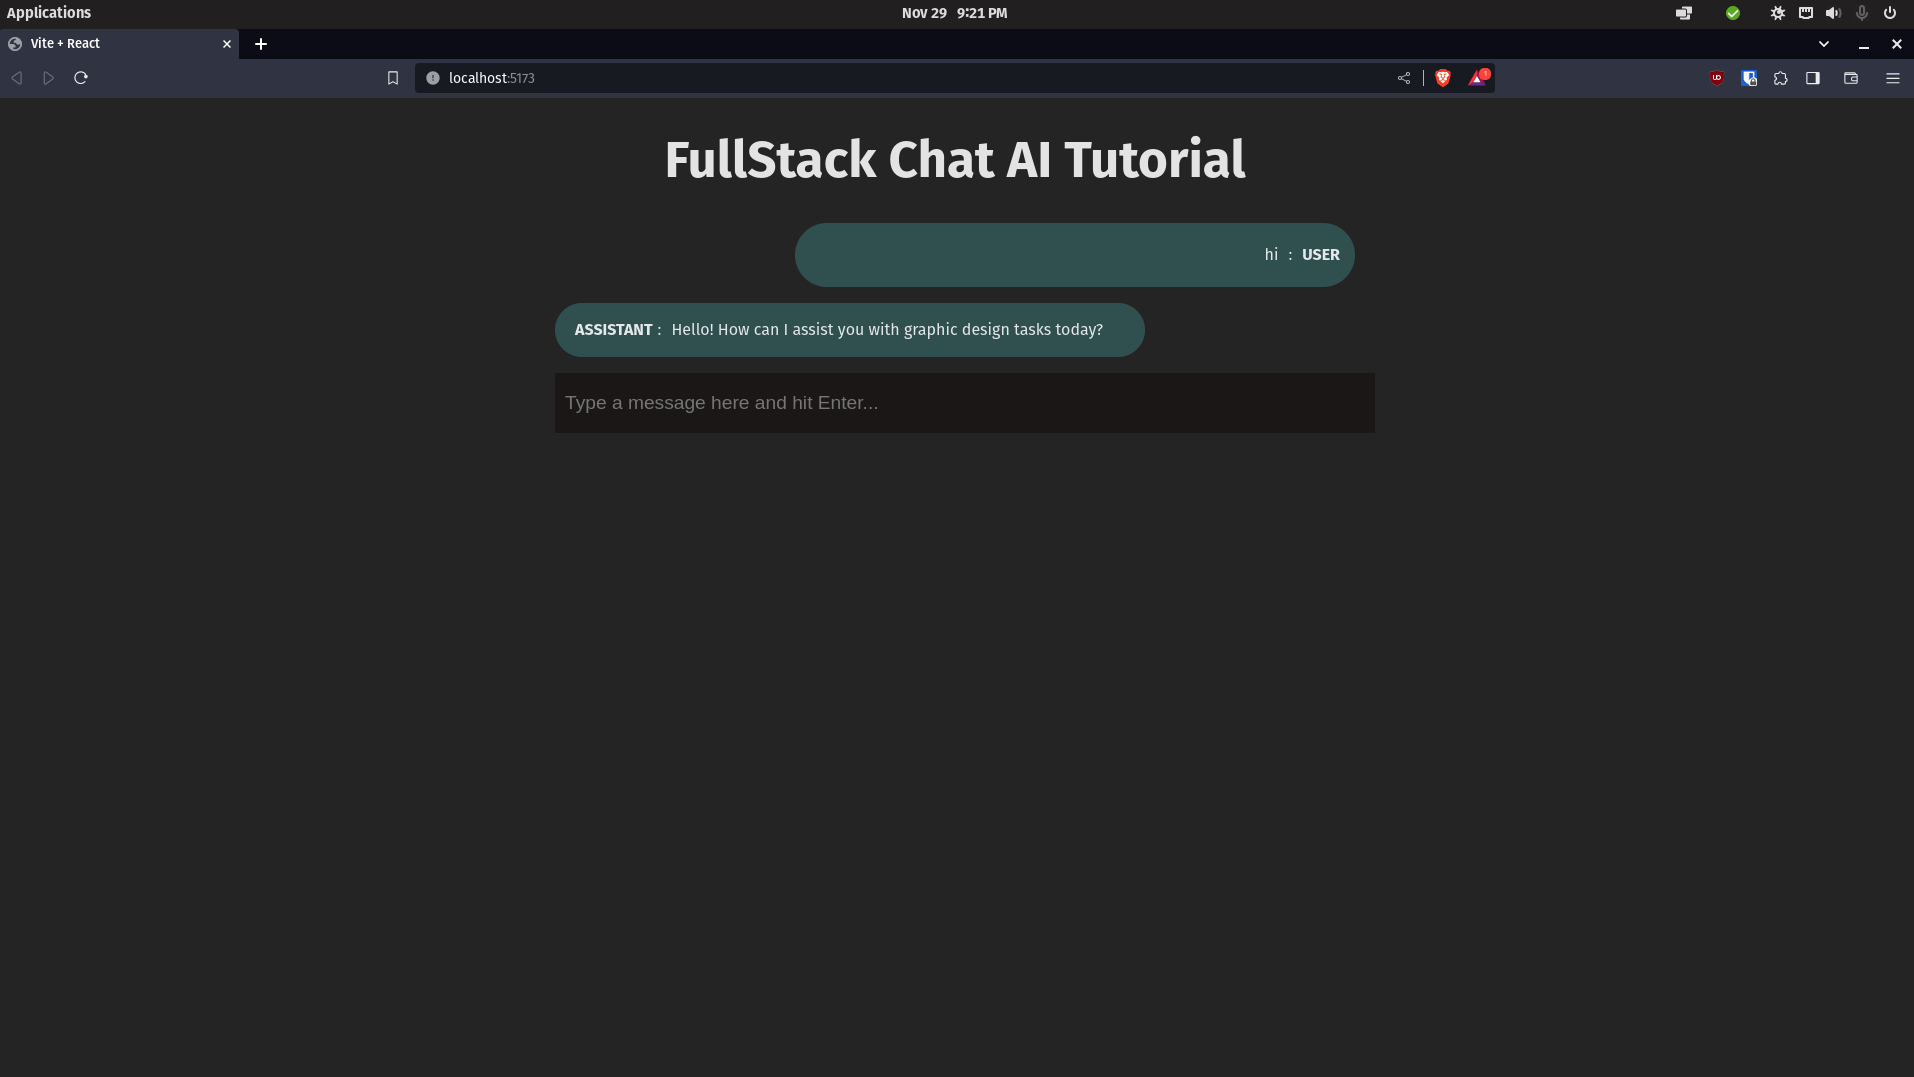
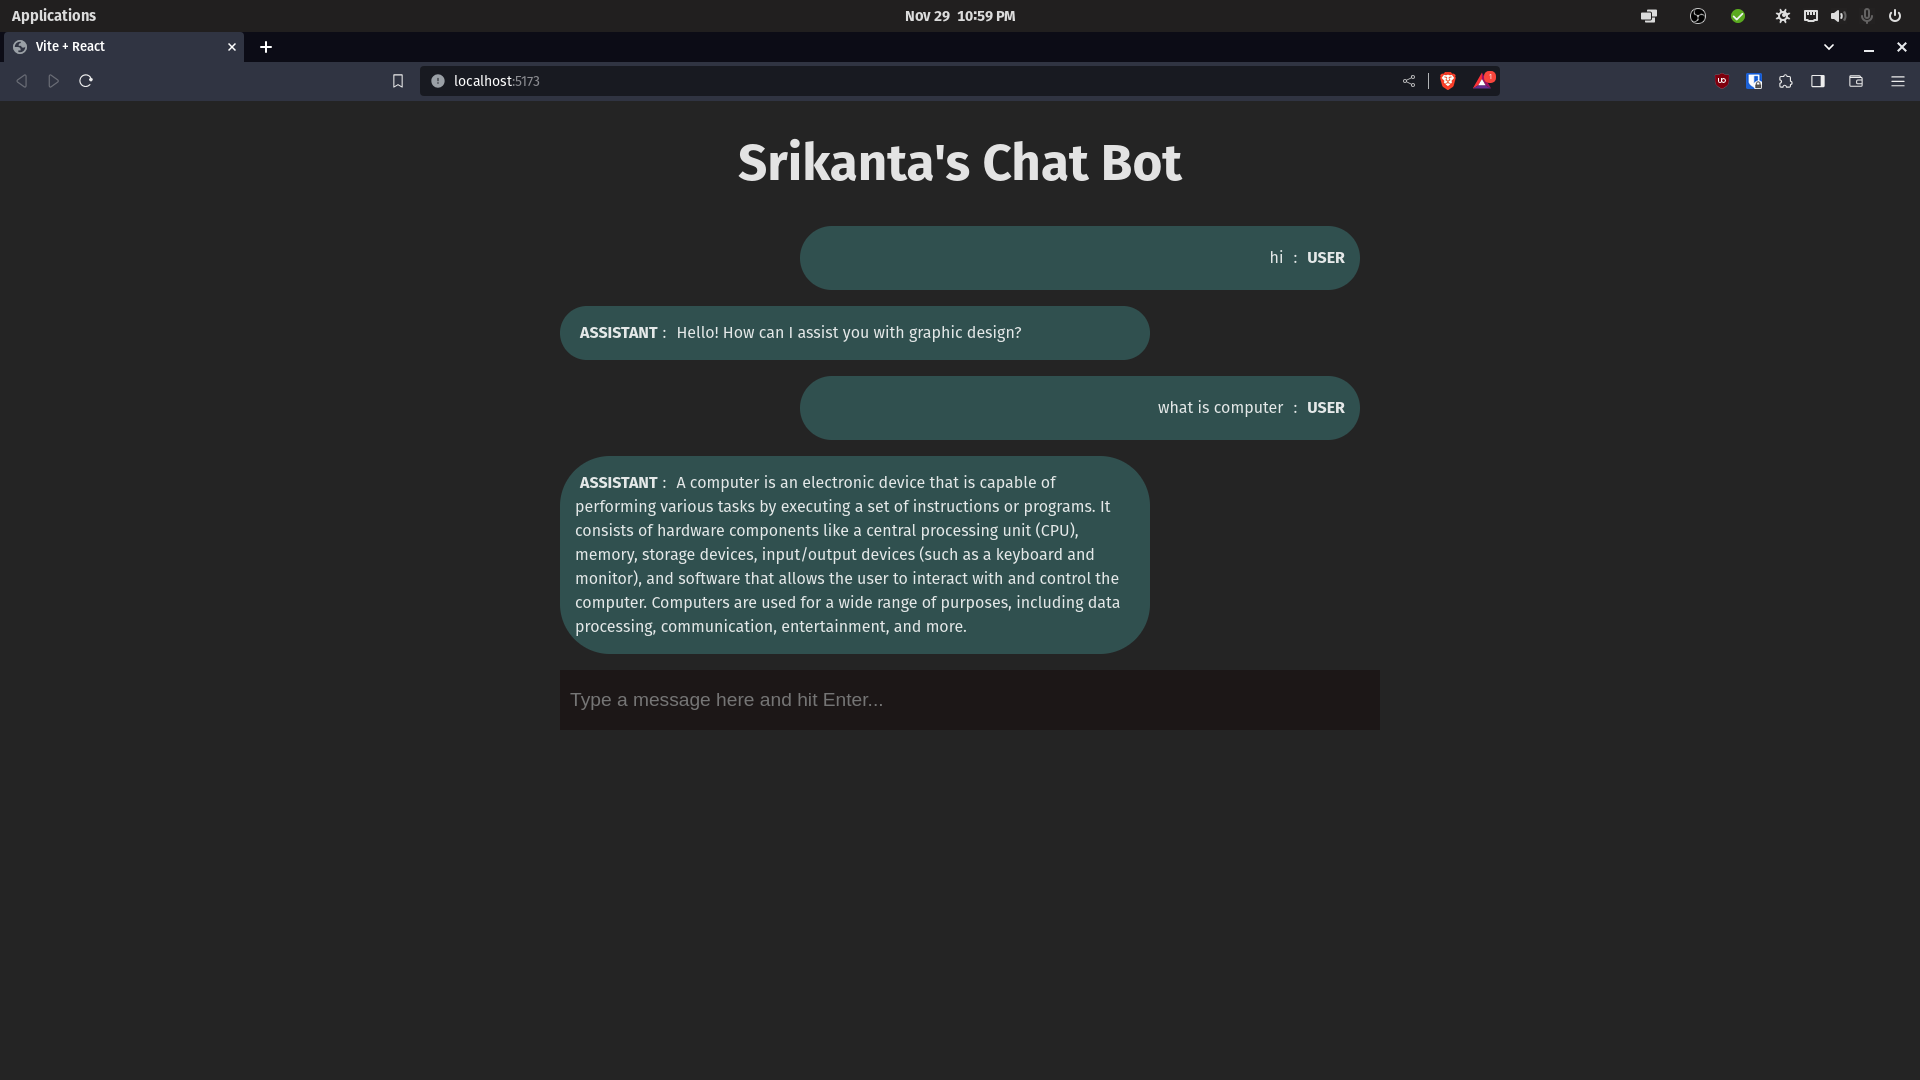
pic

diff --git a/frontend/src/App.jsx b/frontend/src/App.jsx
@@ -42,7 +42,7 @@ function App() {
 
   return (
     <main>
-      <h1>FullStack Chat AI Tutorial</h1>
+      <h1>Srikanta's Chat Bot</h1>
 
       <section>
         {chats && chats.length
